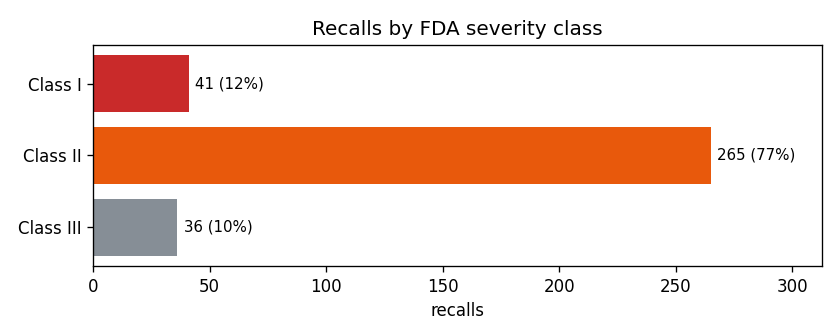
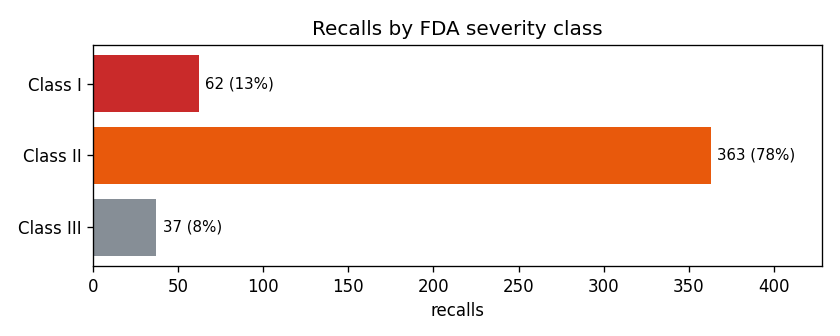
Add reporting lag by severity class; refresh data (+121 recalls)
Table of median/p90 lag per Class I/II/III. 2 new tests (32 total).

diff --git a/tests/test_analyze.py b/tests/test_analyze.py
@@ -104,3 +104,28 @@ def test_lag_summary_median_p90_max():
     assert out["median"] == 5.5  # lags 1..10
     assert out["max"] == 10
     assert 1 <= out["p90"] <= 10
+
+
+def test_lag_by_classification_groups_and_skips_empty():
+    from recallradar.analyze import lag_by_classification
+    records = [
+        {"classification": "Class I", "recall_initiation_date": "20261001", "report_date": "20261011"},
+        {"classification": "Class I", "recall_initiation_date": "20261001", "report_date": "20261021"},
+        {"classification": "Class II", "recall_initiation_date": "20261001", "report_date": "20261006"},
+        {"classification": "Class III", "recall_initiation_date": "", "report_date": "20261006"},
+    ]
+    out = lag_by_classification(records)
+    assert set(out) == {"Class I", "Class II"}  # Class III has no usable lag
+    assert out["Class I"]["median"] == 15.0
+    assert out["Class II"]["count"] == 1
+
+
+def test_report_renders_lag_by_class_table():
+    import datetime as dt
+    from recallradar import report
+    md = report.render_markdown(
+        {"total": 1, "days_with_recalls": 1, "by_classification": {}, "by_product_type": {}, "top_firms": []},
+        [], dt.date(2026, 10, 1), dt.date(2026, 10, 30),
+        lag={"count": 2, "median": 5, "p90": 6, "max": 6},
+        lag_by_class={"Class I": {"count": 2, "median": 5, "p90": 6, "max": 6}})
+    assert "| Class I | 2 | 5 | 6 |" in md

diff --git a/src/recallradar/report.py b/src/recallradar/report.py
@@ -18,7 +18,8 @@ def render_markdown(summary: dict, spotlight: list[dict],
                     data_through: dt.date | None = None,
                     generated_at: dt.datetime | None = None,
                     endpoint_updated: dict[str, dt.date] | None = None,
-                    lag: dict | None = None) -> str:
+                    lag: dict | None = None,
+                    lag_by_class: dict | None = None) -> str:
     generated_at = generated_at or dt.datetime.now(dt.timezone.utc)
     if endpoint_updated:
         parts = ", ".join(f"{ep} {d}" for ep, d in sorted(endpoint_updated.items()))
@@ -52,6 +53,13 @@ def render_markdown(summary: dict, spotlight: list[dict],
             f"{lag['count']} recalls in the window with both dates: "
             f"median **{lag['median']}**, p90 {lag['p90']}, longest {lag['max']}.",
         ]
+    if lag_by_class:
+        lines += ["", "| Classification | Recalls | Median lag | p90 |",
+                  "| --- | ---: | ---: | ---: |"]
+        for cls in CLASS_ORDER:
+            if cls in lag_by_class:
+                row = lag_by_class[cls]
+                lines.append(f"| {cls} | {row['count']} | {row['median']} | {row['p90']} |")
     lines += ["", "## Top recalling firms", ""]
     for firm, count in summary["top_firms"]:
         lines.append(f"- {firm} ({count})")

diff --git a/src/recallradar/analyze.py b/src/recallradar/analyze.py
@@ -134,3 +134,16 @@ def lag_summary(records: list[dict]) -> dict:
     median = lags[mid] if len(lags) % 2 else (lags[mid - 1] + lags[mid]) / 2
     p90 = lags[min(len(lags) - 1, int(len(lags) * 0.9))]
     return {"count": len(lags), "median": median, "p90": p90, "max": lags[-1]}
+
+
+def lag_by_classification(records: list[dict]) -> dict[str, dict]:
+    """Reporting-lag summary per classification (Class I/II/III/Unknown).
+
+    Shows whether the most severe recalls reach the enforcement report
+    faster or slower than the rest.
+    """
+    groups: dict[str, list[dict]] = {}
+    for rec in records:
+        groups.setdefault(rec.get("classification") or "Unknown", []).append(rec)
+    return {cls: lag_summary(recs) for cls, recs in groups.items()
+            if lag_summary(recs)["count"]}

diff --git a/scripts/daily_update.py b/scripts/daily_update.py
@@ -87,7 +87,8 @@ def main() -> None:
     lag = analyze.lag_summary(records)
     (REPORTS / "daily_report.md").write_text(
         report.render_markdown(summary, spotlight, start, end, data_through,
-                               endpoint_updated=endpoint_updated, lag=lag),
+                               endpoint_updated=endpoint_updated, lag=lag,
+                               lag_by_class=analyze.lag_by_classification(records)),
         encoding="utf-8",
     )
     if report.plot_daily_counts(records, REPORTS / "recalls_last_30d.png",

diff --git a/reports/daily_report.md b/reports/daily_report.md
@@ -1,49 +1,55 @@
 # FDA Recall Radar - daily report
 
-Window: 2026-10-17 to 2026-11-16 (by report date). openFDA last_updated by endpoint: device 2026-11-04, drug 2026-11-04, food 2026-11-04. Generated 2026-11-16 20:07 UTC.
+Window: 2026-10-18 to 2026-11-17 (by report date). openFDA last_updated by endpoint: device 2026-11-11, drug 2026-11-11, food 2026-11-11. Generated 2026-11-17 12:05 UTC.
 
-**343 recalls** across 3 active days.
+**464 recalls** across 4 active days.
 
 ## By severity
 
 | Classification | Recalls |
 | --- | ---: |
-| Class I | 41 |
-| Class II | 265 |
-| Class III | 36 |
+| Class I | 62 |
+| Class II | 363 |
+| Class III | 37 |
 
 ## By product area
 
 | Product type | Recalls |
 | --- | ---: |
-| Devices | 181 |
-| Food | 94 |
-| Drugs | 68 |
+| Devices | 235 |
+| Drugs | 124 |
+| Food | 105 |
 
 ## Reporting lag
 
-Days from recall initiation to the enforcement report, over the 343 recalls in the window with both dates: median **47**, p90 65, longest 835.
+Days from recall initiation to the enforcement report, over the 464 recalls in the window with both dates: median **43.0**, p90 65, longest 917.
+
+| Classification | Recalls | Median lag | p90 |
+| --- | ---: | ---: | ---: |
+| Class I | 62 | 41.0 | 65 |
+| Class II | 363 | 43 | 65 |
+| Class III | 37 | 65 | 65 |
 
 ## Top recalling firms
 
 - El Ruisenor De Mexico, Inc. (61)
+- Victory Medical Center Pharmacy (42)
 - Boston Scientific Cork, Ltd. (41)
 - Medline Industries, LP (32)
 - ABC Compounding Co., Inc. (19)
 - PRITAM INTERNATIONAL PRIVATE LIMITED (17)
+- Henry Schein Inc. (13)
 - Ventec Life Systems, Inc. (12)
+- Cardinal Health 200, LLC (11)
 - PHILIPS MEDICAL SYSTEMS NEDERLAND B.V. (9)
-- Pentax of America Inc (5)
-- Medtronic, Inc. (4)
-- Howmedica Osteonics Corp. (4)
 
 ## Highest-severity recalls in the window
 
-- **Class I** (20261104): GF Blends Inc - Products are recalled due to potential undeclared wheat gluten
-- **Class I** (20261104): EDEN BROTHERS - Salmonella
-- **Class I** (20261104): Oliva on Main - contains undeclared sesame
-- **Class I** (20261104): Oliva on Main - contains undeclared sesame
-- **Class I** (20261104): FORTUNA MARKETING, INC - Broccoli seeds potentially contaminated with Salmonella
+- **Class I** (20261111): Family Farmstead Dairy, LLC - Potential contamination with E. coli (pathogenic non-O157 STEC).
+- **Class I** (20261111): Krasnyi Oktyabr Inc - Contaminated with Listeria monocytogenes
+- **Class I** (20261111): Krasnyi Oktyabr Inc - Contaminated with Listeria monocytogenes
+- **Class I** (20261111): Lidl US TRADING - Listeria monocytogenes. The firm received positive test result of Listeria monocytogenes in the product.
+- **Class I** (20261111): Lockout Industries, LLC - FDA analysis revealed the presence of undeclared sildenafil.
 
 ![Recalls per day](recalls_last_30d.png)
 
